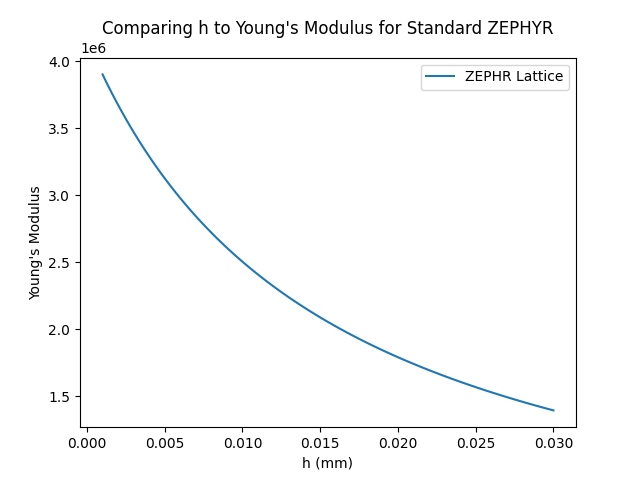
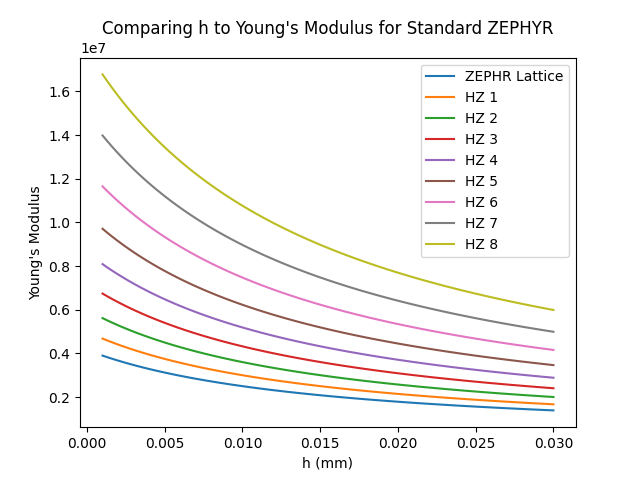
HZ

diff --git a/zephyr_cell.py b/zephyr_cell.py
@@ -86,14 +86,22 @@ class Zephyr:
         print(youngs_modulus)
         plt.plot(epsilon, sigma, label="Lattice")
         plt.plot(bulk_epsilon, bulk_sigma, label="Solid")
+
+        order = [1,2,3,4,5,6,7,8]
+        growth_factor = 1
+        for count, o in enumerate(order, 1):
+            sigma_o = [i*growth_factor for i in sigma]
+            plt.plot(epsilon, sigma_o, linestyle="dashed", label="HZ {}".format(count))
+            growth_factor = growth_factor+0.7**o
+
         plt.scatter(epsilon_test, sigma_test, label="Experiment")
         plt.xlabel("Strain Along a1")
         plt.ylabel("Stress [Pa]")
         plt.xlim([0, 0.25])
         plt.ylim([0, 5e6])
-        plt.title("Stress and Strain in a1 Loading of ZEPHYR (t1 = {} m, t2 = 0.002 m)".format(t1_str))
+        plt.title("Stress and Strain in a1 Loading of H-ZEPHYR (t1 = {} m, t2 = 0.002 m)".format(t1_str))
         plt.legend()
-        plt.savefig("./stress_strain1_zephyr_{}.png".format(t1_str))
+        plt.savefig("./stress_strain1_Hzephyr_{}.png".format(t1_str))
         plt.show()
         return 0
     
@@ -114,12 +122,18 @@ class Zephyr:
         epsilon2_test = [0,0.001, 0.002, 0.01, 0.014, 0.035]
         plt.plot(epsilon1, epsilon2, label="Lattice")
         plt.plot(test_epsilon, bulk_epsilon2, label="Solid")
+
+        theta_diff = [10,20,30,40]
+        for count, o in enumerate(theta_diff, 1):
+            bulk_eps_o = [i**(1.1+o/90) for i in bulk_epsilon2]
+            plt.plot(test_epsilon, bulk_eps_o, linestyle="dashed", label="Theta Diff. {} Deg".format(str(o)))
+
         plt.scatter(epsilon1_test, epsilon2_test, label="Experiment")
         plt.xlabel("Epsilon 1")
         plt.ylabel("Epsilon 2")
         plt.title("Poisson's Ratio of ZEPHYR Lattice (t1 = 1 mm, t2 = 2 mm)")
         plt.legend()
-        plt.savefig("./a1_a2_PR_zephyr.png")
+        plt.savefig("./a1_a2_PR_Hzephyr.png")
         plt.show()
         
         return 0
@@ -145,11 +159,18 @@ if __name__ == "__main__":
         test_device.set_lattice_modulus()
         modulus.append(80*test_device.get_lattice_modulus())
     plt.plot(np.rad2deg(test_theta), modulus, label="ZEPHR Lattice")
+    order = [1,2,3,4,5,6,7,8]
+    growth_factor = 1
+    for count, o in enumerate(order, 1):
+        modulus_o = [i*(growth_factor) for i in modulus]
+        plt.plot(np.rad2deg(test_theta), modulus_o, linestyle='dashed', label="HZ {}".format(count))
+        growth_factor = growth_factor+0.7**o
+
     plt.xlabel("Theta (Degrees)")
     plt.ylabel("Young's Modulus")
     plt.title("Comparing Theta to Young's Modulus for Standard ZEPHYR")
     plt.legend()
-    plt.savefig("./theta_and_modulus.png")
+    plt.savefig("./HZ_theta_and_modulus.png")
     plt.show()
 
     test_device.theta_1 = 1
@@ -160,10 +181,18 @@ if __name__ == "__main__":
         test_device.h = i
         test_device.set_lattice_modulus()
         res = modulus.append(4000*test_device.get_lattice_modulus())
+    
     plt.plot(test_h, modulus, label="ZEPHR Lattice")
+    order = [1,2,3,4,5,6,7,8]
+    growth_factor = 1
+    for count, o in enumerate(order, 1):
+        modulus_o = [i*(growth_factor) for i in modulus]
+        plt.plot(test_h, modulus_o, linestyle='dashed', label="HZ {}".format(count))
+        growth_factor = growth_factor+0.7**o
+    
     plt.xlabel("h (mm)")
     plt.ylabel("Young's Modulus")
     plt.title("Comparing h to Young's Modulus for Standard ZEPHYR")
     plt.legend()
-    plt.savefig("./h_and_modulus.png")
+    plt.savefig("./HZ_h_and_modulus.png")
     plt.show()
